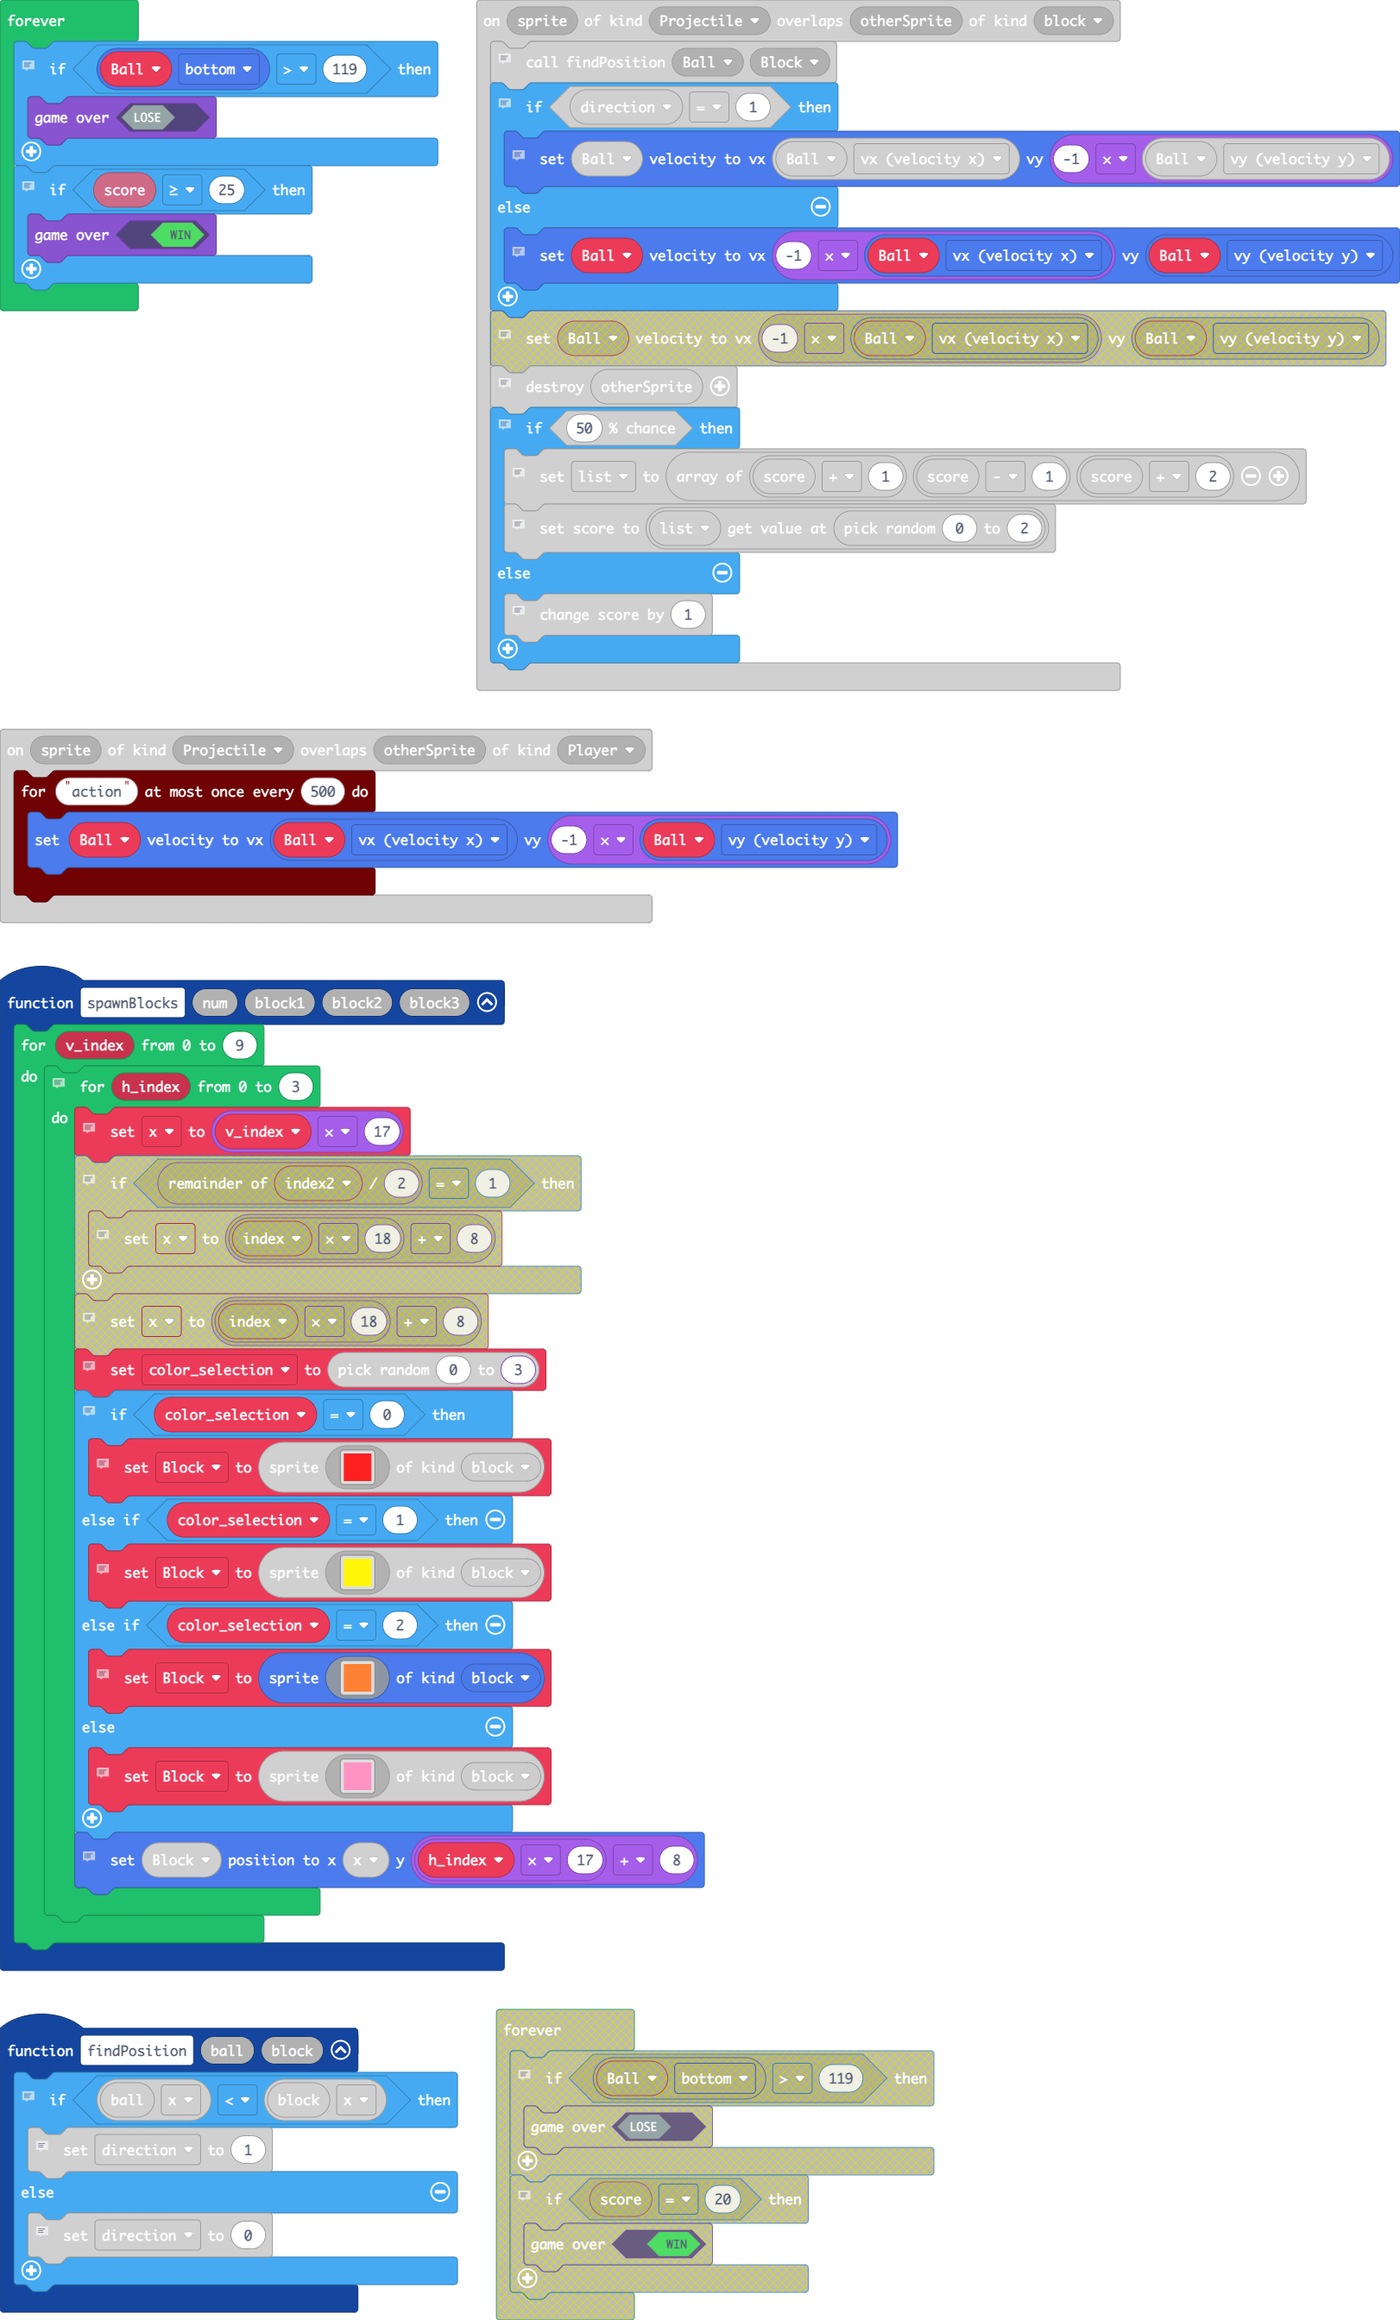
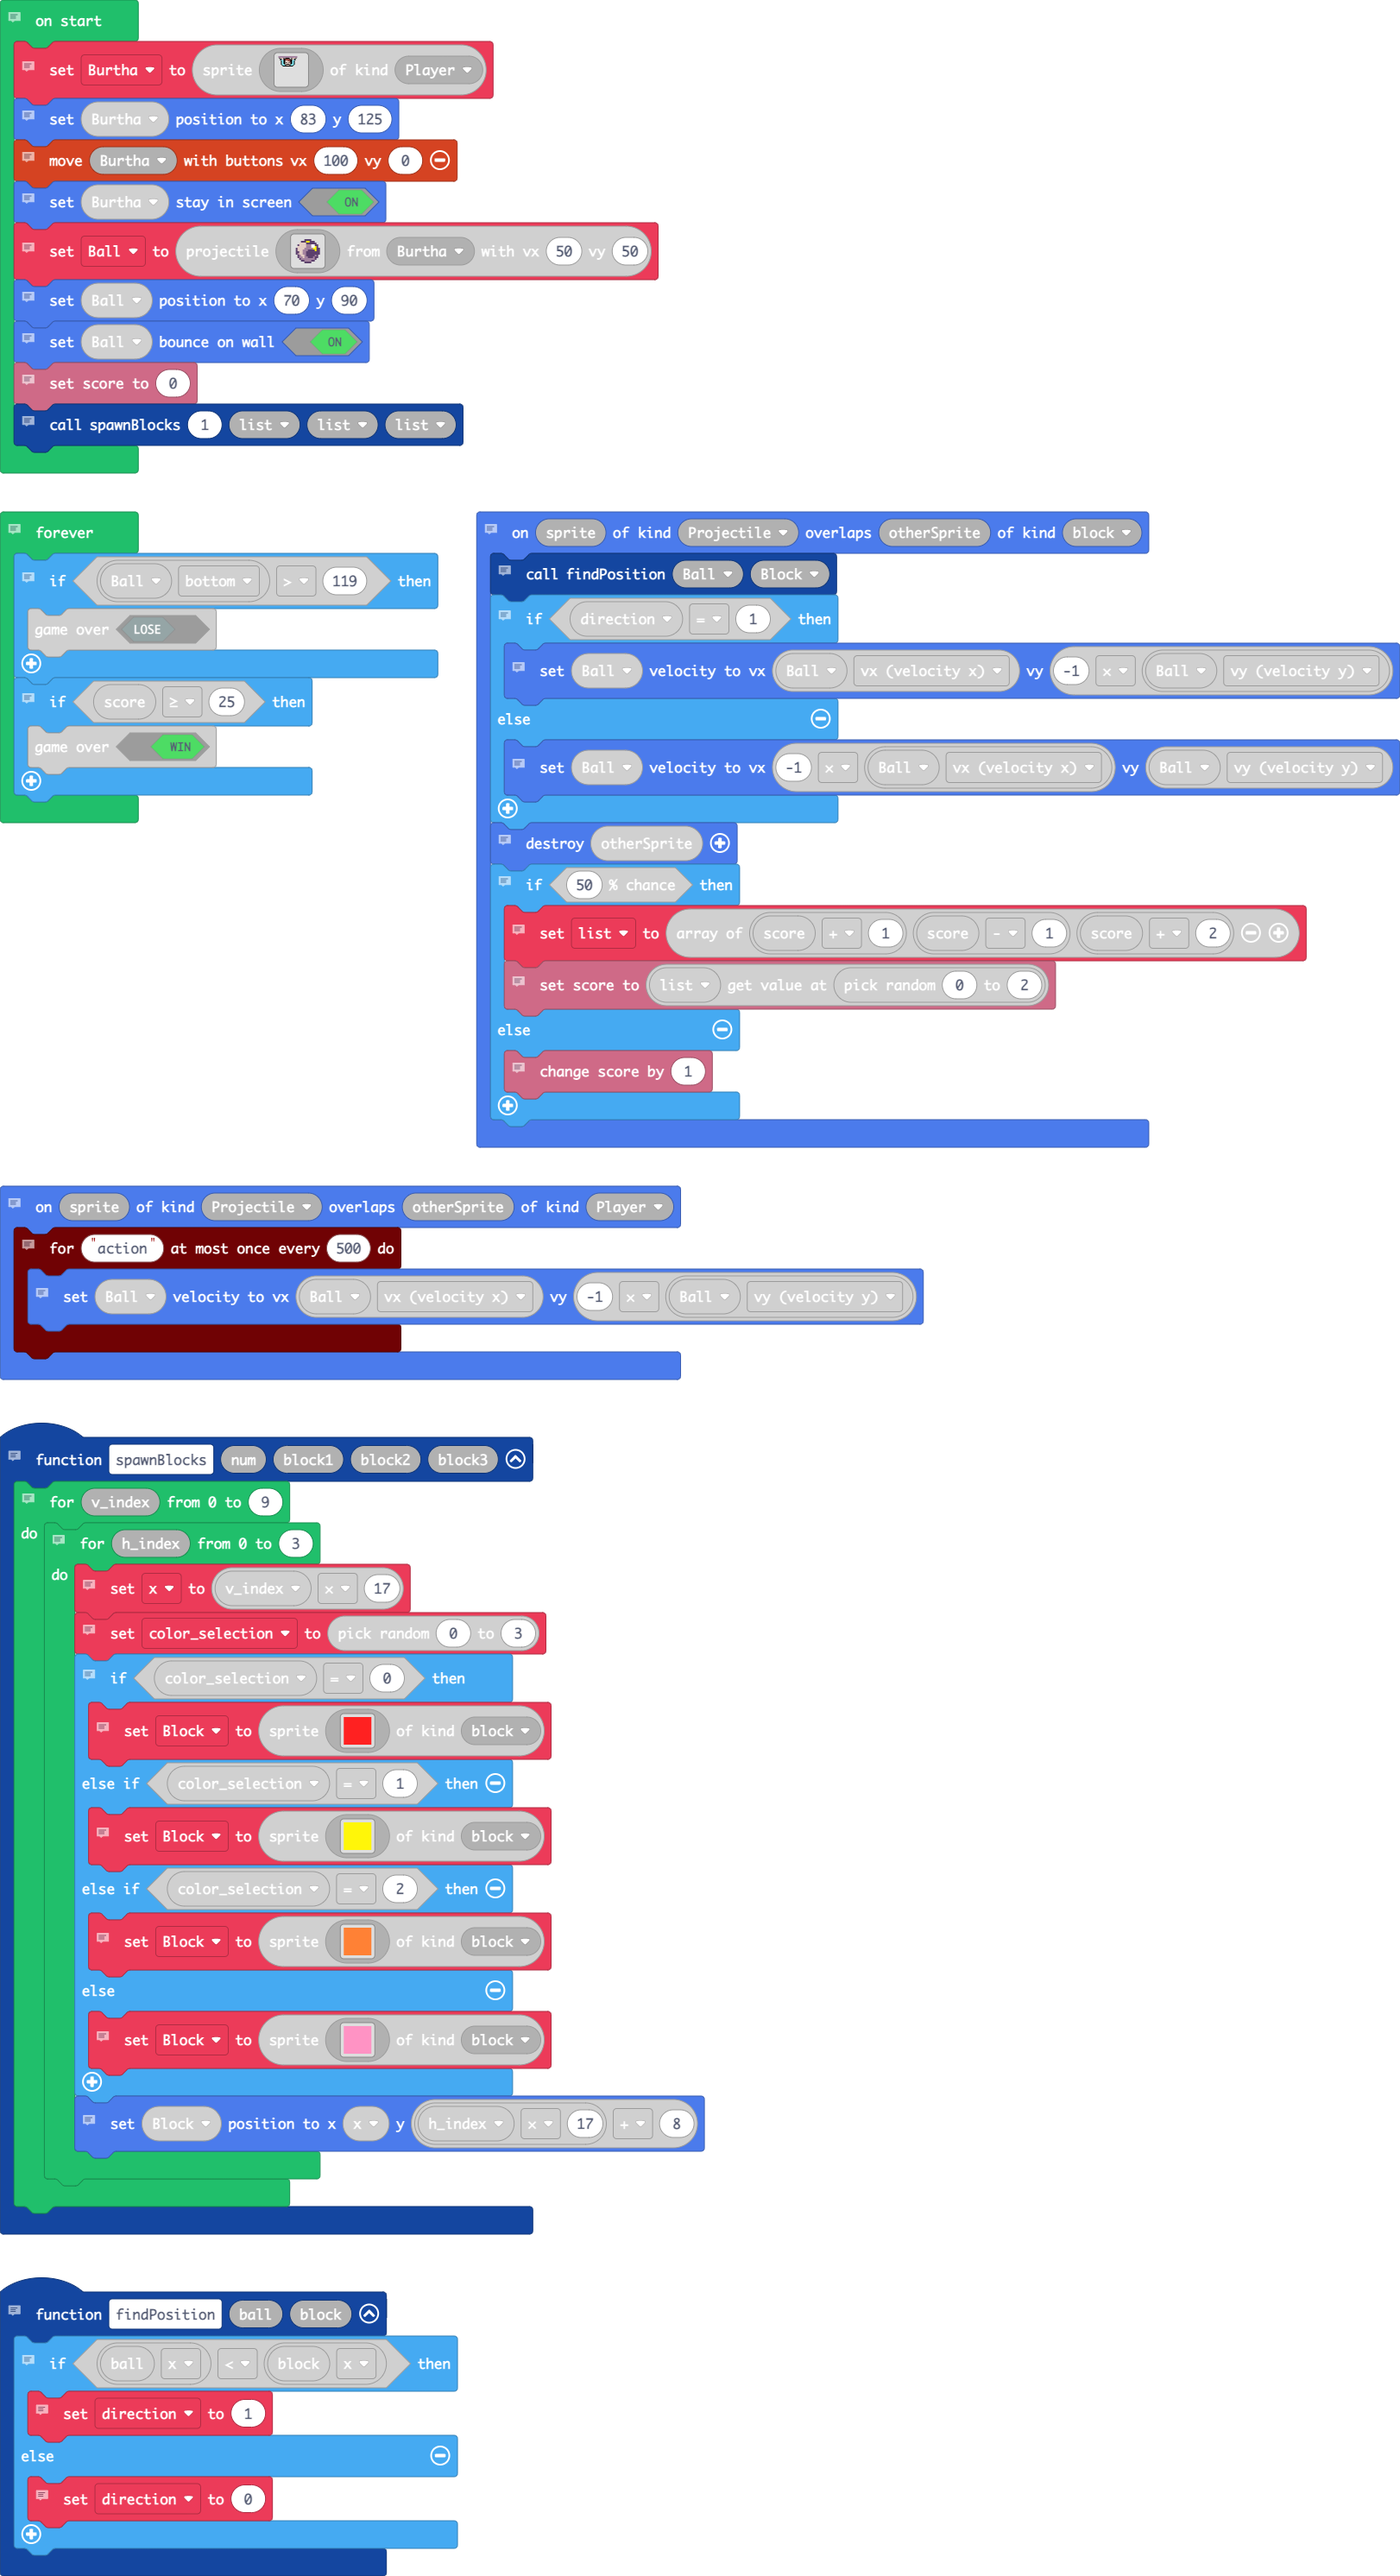
Update main.blocks, main.ts, main.py

diff --git a/main.ts b/main.ts
@@ -1,12 +1,17 @@
 namespace SpriteKind {
     export const block = SpriteKind.create()
 }
+// This code has been written by williamarock
 sprites.onOverlap(SpriteKind.Projectile, SpriteKind.Player, function (sprite, otherSprite) {
+    // This is a timer that will disable this portion of the code for 500 ms every time the ball overlaps
     timer.throttle("action", 500, function () {
+        // it will set the vx to the ball vx and the vy to ball vy times -1
         Ball2.setVelocity(Ball2.vx, -1 * Ball2.vy)
     })
 })
+// This function has been coded by wilkiamarock
 function spawnBlocks (num: number, block1: any[], block2: any[], block3: any[]) {
+    // will repeat everything inside it from number 0 to number 9
     for (let v_index = 0; v_index <= 9; v_index++) {
         // loops for a total of 4 times everytime that the loop of v_index is looped once
         for (let h_index = 0; h_index <= 3; h_index++) {
@@ -101,6 +106,7 @@ function spawnBlocks (num: number, block1: any[], block2: any[], block3: any[]) 
         }
     }
 }
+// This code (except for the if statement) has been written by williamarock
 sprites.onOverlap(SpriteKind.Projectile, SpriteKind.block, function (sprite, otherSprite) {
     // calls function findPosition
     findPosition(Ball2, Block)
@@ -116,6 +122,9 @@ sprites.onOverlap(SpriteKind.Projectile, SpriteKind.block, function (sprite, oth
     sprites.destroy(otherSprite)
     // if 50% is true, then a random variable from the list will be chosen and will change the score by that amount, else the score is changed by 1
     // else then...
+    // 
+    // 
+    // This statement has been written by 80CaliberSpringroll
     if (Math.percentChance(50)) {
         // creates list of array score +1, score - 1, score + 2
         list = [info.score() + 1, info.score() - 1, info.score() + 2]
@@ -126,6 +135,7 @@ sprites.onOverlap(SpriteKind.Projectile, SpriteKind.block, function (sprite, oth
         info.changeScoreBy(1)
     }
 })
+// This function has been written by 80CaliberSpringroll
 function findPosition (ball: Sprite, block: Sprite) {
     // if the x position of ball is smaller than the x position of block, then direction is set to 1, else it is set to 0
     if (ball.x < block.x) {
@@ -136,6 +146,7 @@ function findPosition (ball: Sprite, block: Sprite) {
         direction = 0
     }
 }
+// This section has been written by 80CaliberSpringroll
 let direction = 0
 let Block: Sprite = null
 let color_selection = 0
@@ -177,6 +188,7 @@ Ball2.setBounceOnWall(true)
 info.setScore(0)
 // calls the function spawnBlocks, which will spawn blocks for the game.
 spawnBlocks(1, list, list, list)
+// This code has been written by williamisarock
 forever(function () {
     // if ball goes under x119 of the bottom wall, then game over lose happens
     if (Ball2.bottom > 119) {

diff --git a/main.py b/main.py
@@ -1,8 +1,163 @@
+@namespace
+class SpriteKind:
+    block = SpriteKind.create()
+# This code has been written by williamarock
+
 def on_on_overlap(sprite, otherSprite):
-    Ball.set_velocity(50, -50)
+    # This is a timer that will disable this portion of the code for 500 ms every time the ball overlaps
+    
+    def on_throttle():
+        # it will set the vx to the ball vx and the vy to ball vy times -1
+        Ball2.set_velocity(Ball2.vx, -1 * Ball2.vy)
+    timer.throttle("action", 500, on_throttle)
+    
 sprites.on_overlap(SpriteKind.projectile, SpriteKind.player, on_on_overlap)
 
-Ball: Sprite = None
+# This function has been coded by wilkiamarock
+def spawnBlocks(num: number, block1: List[any], block2: List[any], block3: List[any]):
+    global x, color_selection, Block
+    # will repeat everything inside it from number 0 to number 9
+    for v_index in range(10):
+        # loops for a total of 4 times everytime that the loop of v_index is looped once
+        for h_index in range(4):
+            # sets the variable x to v_index x 17
+            x = v_index * 17
+            # sets color_selection to pick a random number between 0 and 2
+            color_selection = randint(0, 3)
+            # this asks the program whether variable color_selection is equal to either 0, 1 or 2, and if it is equal to 0, then it will pick a red block. if it is equal to 1, it will pick and yellow block, if its equal to 2 then it will pick an orange block and if it is not equal to either 0, 1 or 2, then it will be picking a pink block.
+            if color_selection == 0:
+                # sets a red block sprite to the block variable
+                Block = sprites.create(img("""
+                        2 2 2 2 2 2 2 2 2 2 2 2 2 2 2 2 
+                                            2 2 2 2 2 2 2 2 2 2 2 2 2 2 2 2 
+                                            2 2 2 2 2 2 2 2 2 2 2 2 2 2 2 2 
+                                            2 2 2 2 2 2 2 2 2 2 2 2 2 2 2 2 
+                                            2 2 2 2 2 2 2 2 2 2 2 2 2 2 2 2 
+                                            2 2 2 2 2 2 2 2 2 2 2 2 2 2 2 2 
+                                            2 2 2 2 2 2 2 2 2 2 2 2 2 2 2 2 
+                                            2 2 2 2 2 2 2 2 2 2 2 2 2 2 2 2 
+                                            2 2 2 2 2 2 2 2 2 2 2 2 2 2 2 2 
+                                            2 2 2 2 2 2 2 2 2 2 2 2 2 2 2 2 
+                                            2 2 2 2 2 2 2 2 2 2 2 2 2 2 2 2 
+                                            2 2 2 2 2 2 2 2 2 2 2 2 2 2 2 2 
+                                            2 2 2 2 2 2 2 2 2 2 2 2 2 2 2 2 
+                                            2 2 2 2 2 2 2 2 2 2 2 2 2 2 2 2 
+                                            2 2 2 2 2 2 2 2 2 2 2 2 2 2 2 2 
+                                            2 2 2 2 2 2 2 2 2 2 2 2 2 2 2 2
+                    """),
+                    SpriteKind.block)
+            elif color_selection == 1:
+                # sets a yellow block sprite to the block variable
+                Block = sprites.create(img("""
+                        5 5 5 5 5 5 5 5 5 5 5 5 5 5 5 5 
+                                            5 5 5 5 5 5 5 5 5 5 5 5 5 5 5 5 
+                                            5 5 5 5 5 5 5 5 5 5 5 5 5 5 5 5 
+                                            5 5 5 5 5 5 5 5 5 5 5 5 5 5 5 5 
+                                            5 5 5 5 5 5 5 5 5 5 5 5 5 5 5 5 
+                                            5 5 5 5 5 5 5 5 5 5 5 5 5 5 5 5 
+                                            5 5 5 5 5 5 5 5 5 5 5 5 5 5 5 5 
+                                            5 5 5 5 5 5 5 5 5 5 5 5 5 5 5 5 
+                                            5 5 5 5 5 5 5 5 5 5 5 5 5 5 5 5 
+                                            5 5 5 5 5 5 5 5 5 5 5 5 5 5 5 5 
+                                            5 5 5 5 5 5 5 5 5 5 5 5 5 5 5 5 
+                                            5 5 5 5 5 5 5 5 5 5 5 5 5 5 5 5 
+                                            5 5 5 5 5 5 5 5 5 5 5 5 5 5 5 5 
+                                            5 5 5 5 5 5 5 5 5 5 5 5 5 5 5 5 
+                                            5 5 5 5 5 5 5 5 5 5 5 5 5 5 5 5 
+                                            5 5 5 5 5 5 5 5 5 5 5 5 5 5 5 5
+                    """),
+                    SpriteKind.block)
+            elif color_selection == 2:
+                # sets a orange block sprite to the block variable
+                Block = sprites.create(img("""
+                        4 4 4 4 4 4 4 4 4 4 4 4 4 4 4 4 
+                                            4 4 4 4 4 4 4 4 4 4 4 4 4 4 4 4 
+                                            4 4 4 4 4 4 4 4 4 4 4 4 4 4 4 4 
+                                            4 4 4 4 4 4 4 4 4 4 4 4 4 4 4 4 
+                                            4 4 4 4 4 4 4 4 4 4 4 4 4 4 4 4 
+                                            4 4 4 4 4 4 4 4 4 4 4 4 4 4 4 4 
+                                            4 4 4 4 4 4 4 4 4 4 4 4 4 4 4 4 
+                                            4 4 4 4 4 4 4 4 4 4 4 4 4 4 4 4 
+                                            4 4 4 4 4 4 4 4 4 4 4 4 4 4 4 4 
+                                            4 4 4 4 4 4 4 4 4 4 4 4 4 4 4 4 
+                                            4 4 4 4 4 4 4 4 4 4 4 4 4 4 4 4 
+                                            4 4 4 4 4 4 4 4 4 4 4 4 4 4 4 4 
+                                            4 4 4 4 4 4 4 4 4 4 4 4 4 4 4 4 
+                                            4 4 4 4 4 4 4 4 4 4 4 4 4 4 4 4 
+                                            4 4 4 4 4 4 4 4 4 4 4 4 4 4 4 4 
+                                            4 4 4 4 4 4 4 4 4 4 4 4 4 4 4 4
+                    """),
+                    SpriteKind.block)
+            else:
+                # sets a pink block sprite to the block variable
+                Block = sprites.create(img("""
+                        3 3 3 3 3 3 3 3 3 3 3 3 3 3 3 3 
+                                            3 3 3 3 3 3 3 3 3 3 3 3 3 3 3 3 
+                                            3 3 3 3 3 3 3 3 3 3 3 3 3 3 3 3 
+                                            3 3 3 3 3 3 3 3 3 3 3 3 3 3 3 3 
+                                            3 3 3 3 3 3 3 3 3 3 3 3 3 3 3 3 
+                                            3 3 3 3 3 3 3 3 3 3 3 3 3 3 3 3 
+                                            3 3 3 3 3 3 3 3 3 3 3 3 3 3 3 3 
+                                            3 3 3 3 3 3 3 3 3 3 3 3 3 3 3 3 
+                                            3 3 3 3 3 3 3 3 3 3 3 3 3 3 3 3 
+                                            3 3 3 3 3 3 3 3 3 3 3 3 3 3 3 3 
+                                            3 3 3 3 3 3 3 3 3 3 3 3 3 3 3 3 
+                                            3 3 3 3 3 3 3 3 3 3 3 3 3 3 3 3 
+                                            3 3 3 3 3 3 3 3 3 3 3 3 3 3 3 3 
+                                            3 3 3 3 3 3 3 3 3 3 3 3 3 3 3 3 
+                                            3 3 3 3 3 3 3 3 3 3 3 3 3 3 3 3 
+                                            3 3 3 3 3 3 3 3 3 3 3 3 3 3 3 3
+                    """),
+                    SpriteKind.block)
+            # will set block sprite to a position x of x variable and y of h_index times 17 + 8
+            Block.set_position(x, h_index * 17 + 8)
+# This code (except for the if statement) has been written by williamarock
+
+def on_on_overlap2(sprite2, otherSprite2):
+    global list2
+    # calls function findPosition
+    findPosition(Ball2, Block)
+    # if direction is equal to one, then the ball will bounce downward from the block x position, else it will bounce upwards from the block x position
+    if direction == 1:
+        # sets ball velocity to its vx and vy times -1, making it bounce at all time away from where it hit the block
+        Ball2.set_velocity(Ball2.vx, -1 * Ball2.vy)
+    else:
+        # sets the ball velocity to vx times -1 and vy to ball vy.
+        Ball2.set_velocity(-1 * Ball2.vx, Ball2.vy)
+    # destroys othersprite
+    sprites.destroy(otherSprite2)
+    # if 50% is true, then a random variable from the list will be chosen and will change the score by that amount, else the score is changed by 1
+    # else then...
+    # 
+    # 
+    # This statement has been written by 80CaliberSpringroll
+    if Math.percent_chance(50):
+        # creates list of array score +1, score - 1, score + 2
+        list2 = [info.score() + 1, info.score() - 1, info.score() + 2]
+        # sets score to random value between 0 and 2 from list.
+        info.set_score(list2[randint(0, 2)])
+    else:
+        # change score by 1
+        info.change_score_by(1)
+sprites.on_overlap(SpriteKind.projectile, SpriteKind.block, on_on_overlap2)
+
+# This function has been written by 80CaliberSpringroll
+def findPosition(ball: Sprite, block4: Sprite):
+    global direction
+    # if the x position of ball is smaller than the x position of block, then direction is set to 1, else it is set to 0
+    if ball.x < block4.x:
+        # set direction variable to 1
+        direction = 1
+    else:
+        # set direction variable to 0
+        direction = 0
+# This section has been written by 80CaliberSpringroll
+direction = 0
+Block: Sprite = None
+color_selection = 0
+x = 0
+list2: List[number] = []
+Ball2: Sprite = None
 # This creates the player sprite and sets it as a player kind
 Burtha = sprites.create(assets.image("""
     Burtha
@@ -13,9 +168,8 @@ Burtha.set_position(83, 125)
 controller.move_sprite(Burtha, 100, 0)
 # Doesn't allow the player sprite to go outside of the walls
 Burtha.set_stay_in_screen(True)
-info.set_life(3)
 # Creates a sprite for the ball, and sets it as a kind projectile
-Ball = sprites.create_projectile_from_sprite(img("""
+Ball2 = sprites.create_projectile_from_sprite(img("""
         . . . . . . . . . . . . . . . . 
             . . . . . . c c c c . . . . . . 
             . . . . c c c 5 5 c c c . . . . 
@@ -36,12 +190,21 @@ Ball = sprites.create_projectile_from_sprite(img("""
     Burtha,
     50,
     50)
+# Sets ball to a x70 y90 position on start.
+Ball2.set_position(70, 90)
 # Makes it so that the ball bounces on the wall when it touches them
-Ball.set_bounce_on_wall(True)
-Death_Line = sprites.create(img("""
-        7 7 7 7 7 7 7 7 7 7 7 7 7 7 7 7 7 7 7 7 7 7 7 7 7 7 7 7 7 7 7 7 7 7 7 7 7 7 7 7 7 7 7 7 7 7 7 7 7 7 7 7 7 7 7 7 7 7 7 7 7 7 7 7 7 7 7 7 7 7 7 7 7 7 7 7 7 7 7 7 7 7 7 7 7 7 7 7 7 7 7 7 7 7 7 7 7 7 7 7 7 7 7 7 7 7 7 7 7 7 7 7 7 7 7 7 7 7 7 7 7 7 7 7 7 7 7 7 7 7 7 7 7 7 7 7 7 7 7 7 7 7 7 7 7 7 7 7 7 7
-    """),
-    SpriteKind.enemy)
-Death_Line.set_position(72, 50)
-if Ball.overlaps_with(Death_Line):
-    info.change_life_by(-1)
+Ball2.set_bounce_on_wall(True)
+# sets the score variable 
+info.set_score(0)
+# calls the function spawnBlocks, which will spawn blocks for the game.
+spawnBlocks(1, list2, list2, list2)
+# This code has been written by williamisarock
+
+def on_forever():
+    # if ball goes under x119 of the bottom wall, then game over lose happens
+    if Ball2.bottom > 119:
+        game.game_over(False)
+    # if score is equal to 25, then game over win happens
+    if info.score() >= 25:
+        game.game_over(True)
+forever(on_forever)
